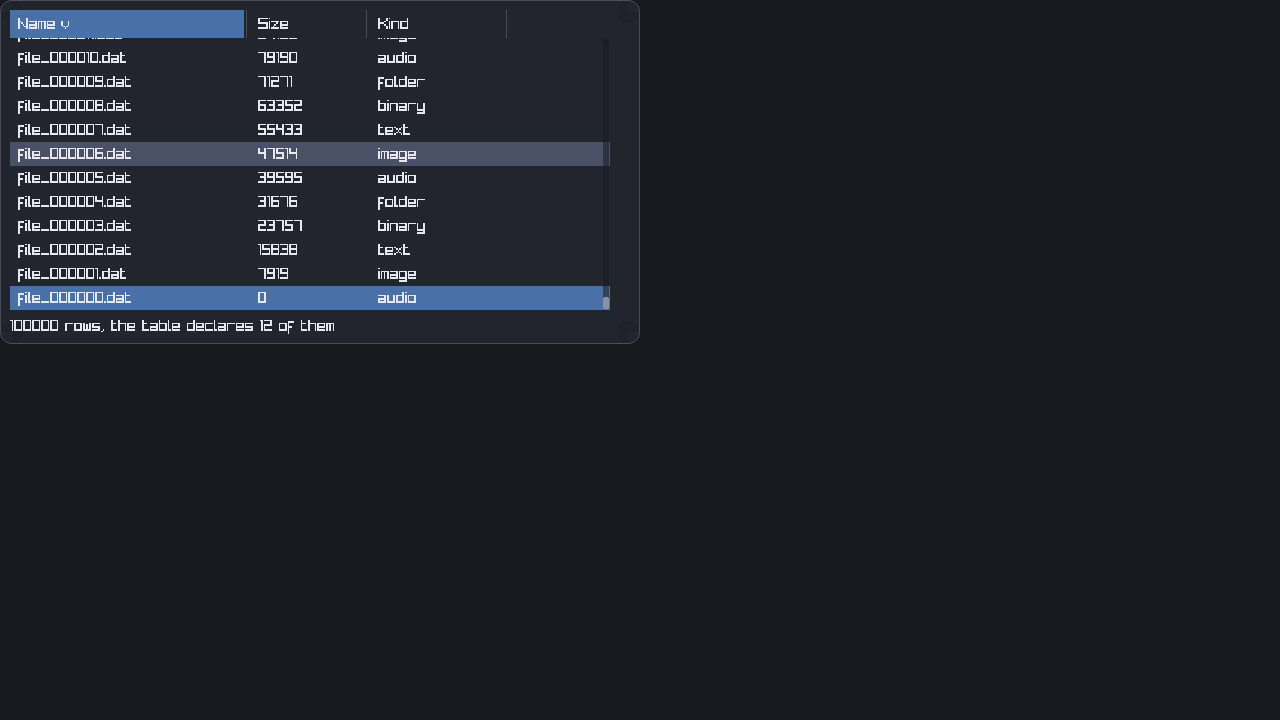
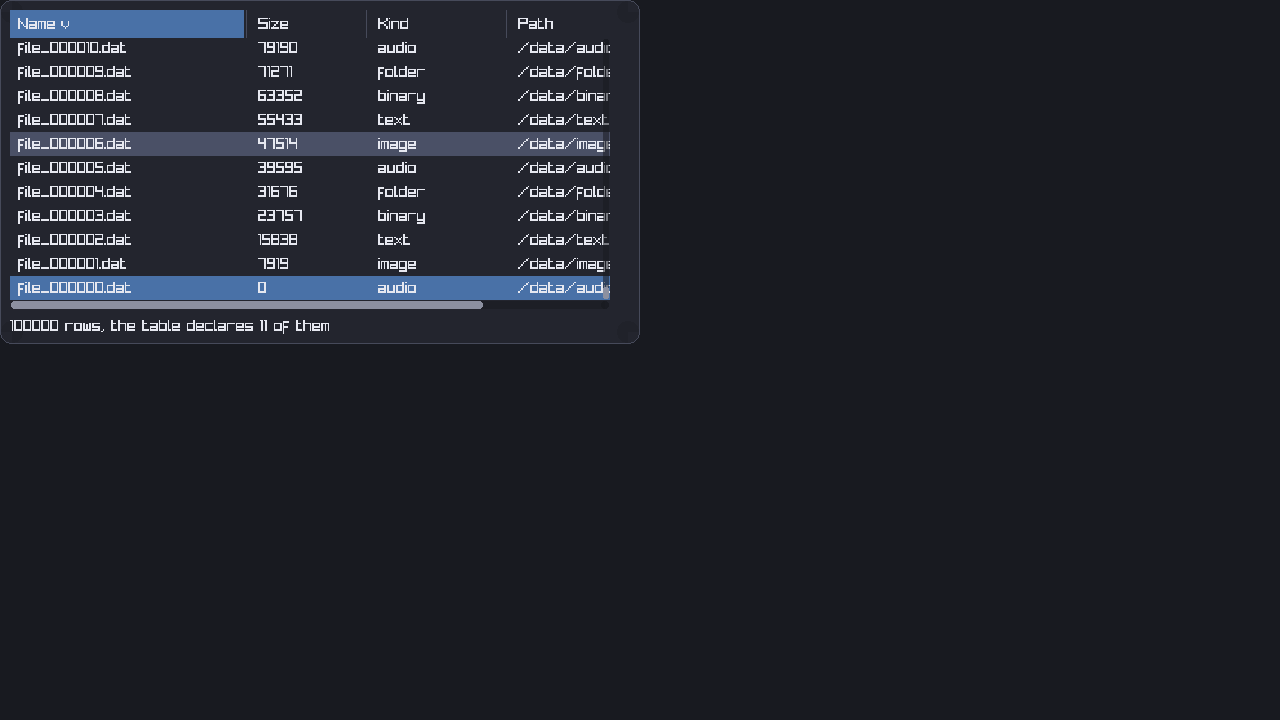
ui: table scrolls sideways, and the last column can fill the room
A table whose columns are wider than its room scrolls sideways: the wheel with Shift, a sideways wheel, or the bar under the rows; the header goes with
the rows (its own clip), rows are as wide as all the columns. fill_last gives the last column the room the others leave. The default scrollbar draws
the horizontal bar (DrawInfo.actual 1). UiTableScrollX and UiTableScrollSet for the program. The table demo got a fourth, wide column.

Claude-Session: https://claude.ai/code/session_01VmEee6MKKvbYT6tj2787vE

Changed region(s): [[0.0, 0.0306, 0.5, 0.4583]]

diff --git a/ui/README.md b/ui/README.md
@@ -178,7 +178,8 @@ A `Context` is big now (about 300 KB: the tables of the measure cache, the inspe
 `if ui.UiVirtual(&ctx, "Files", &list, len(files), 24, size) { for row in list.first ..< list.last { if ui.UiVirtualRow(&ctx, &list, row) { ...widgets... } } }`: a click selects the row under the pointer (`list.changed`), a double click or
 Enter sets `list.activated`, up, down, page up, page down, Home and End move the selection while the list has the focus (they do not move the keyboard focus away), the view follows it, the wheel and the scrollbar scroll, a button inside of a row takes its own clicks.
 `UiTable` adds a header: a click on a column makes it ascending, descending, then none (`table.sort_changed`, `sort_column`, `sort_descending`: the program sorts its own list of row numbers), the edge of a header is dragged to resize the column (`TableColumn.width`,
-never below `min_width`), `UiTableRow` / `UiTableCell` / `UiTableText` declare the cells at the width of their column. Before the size of the view is known the first frame declares a fixed height worth of rows (or ten): give a table a fixed height when its rows have many elements
+never below `min_width`), `UiTableRow` / `UiTableCell` / `UiTableText` declare the cells at the width of their column. A table wider than its room scrolls sideways (the wheel with Shift, a sideways wheel, or the bar under the rows; the header goes with the rows, `UiTableScrollX` / `UiTableScrollSet`); `table.fill_last` makes the last column take
+the room that the others leave, so a narrow table has no empty strip. Before the size of the view is known the first frame declares a fixed height worth of rows (or ten): give a table a fixed height when its rows have many elements
 and the storage is small. A tree is a list of the rows that are visible: the program flattens its tree and draws the indentation and the arrow in the row. Demo: `demo_common/demo_table.odin`.
 
 ## Timeline

diff --git a/ui/TODO.md b/ui/TODO.md
@@ -25,7 +25,8 @@ Tick an item when it is done and verified (tests pass, committed).
 - [x] Virtual list and table (`UiVirtual`, `UiTable`): only the rows in view are declared, selection by pointer and keys, sortable header, resizable columns; demo with 100 000 rows and a screenshot
 - [x] Inspector panel (`UiInspector`): element tree of the last frame, buffer usage, measure cache, picking by the pointer; demo with a screenshot
 - [ ] Inspector: the layout of the selected element (sizing, padding, gap, floating), the draw commands of a frame as a list, a filter by name, collapsing of the tree
-- [ ] Table: horizontal scrolling when the columns are wider than the table, a column that fills the room, reordering columns by dragging a header, double click on an edge to fit the column, keys inside of a row (cells that are widgets)
+- [x] Table: sideways scrolling (wheel with Shift, bar, header goes along) and a last column that fills the room
+- [ ] Table: reordering columns by dragging a header, double click on an edge to fit the column, keys inside of a row (cells that are widgets)
 - [x] Tree (`Tree`, `UiTree`): fixed storage model, visible rows flattened, arrows, keys, lazy loading through `view.toggled`; demo with a screenshot
 - [ ] Tree: drag and drop of nodes, rename in place, icons or custom row content, several selected nodes, a filter that opens the parents of what matches
 - [ ] Text area: rows are found from the whole text every frame (measures per word): keep them between frames while the text and the width do not change
